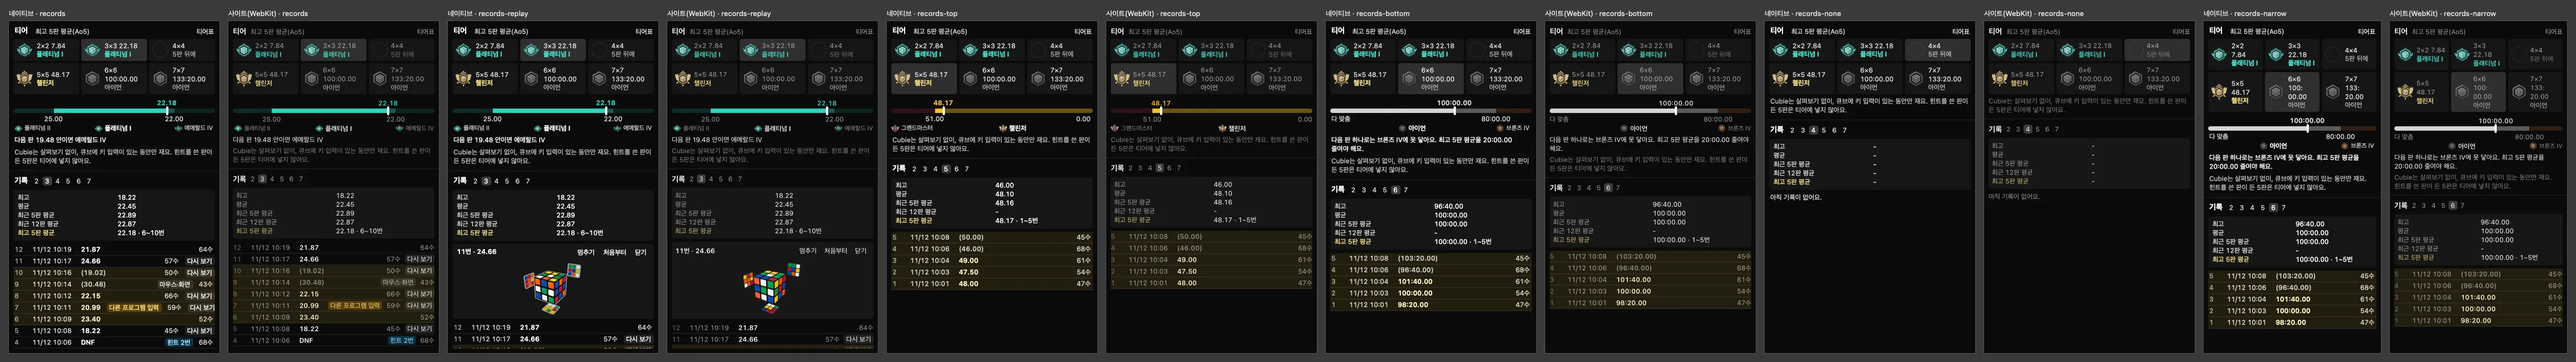
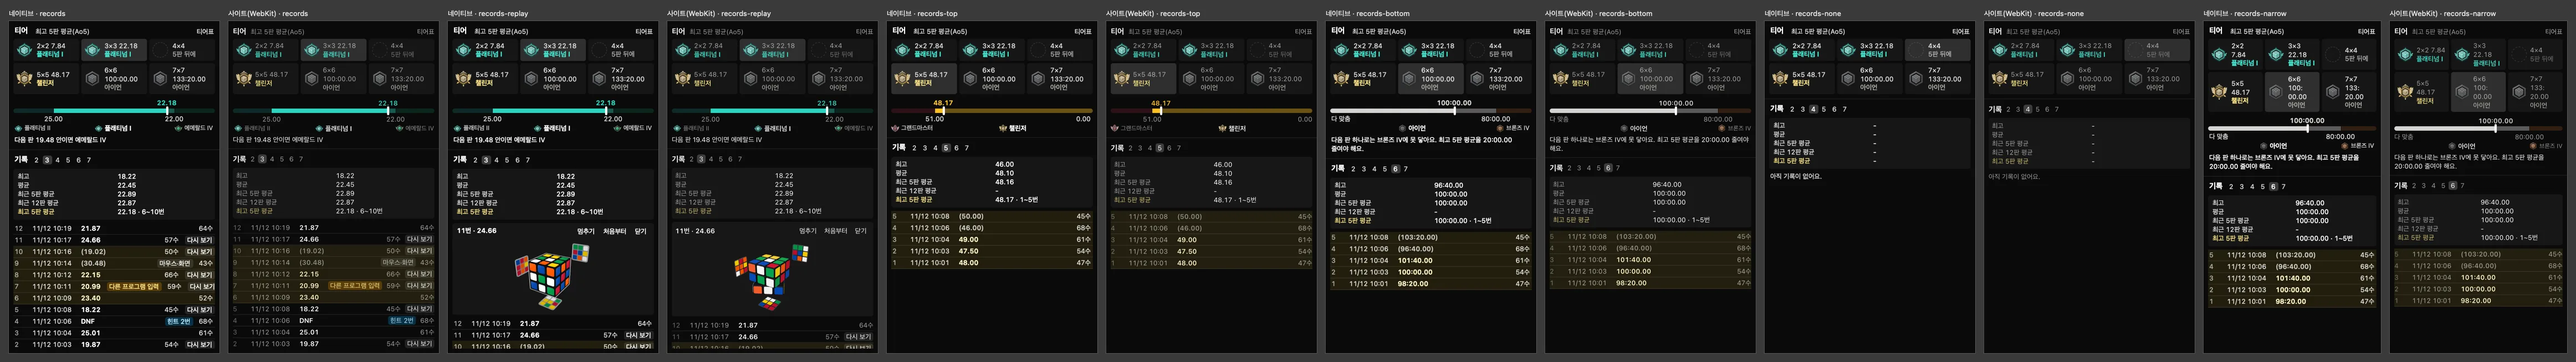
fix(cube): 큐브 화면·Cubie 창의 덧붙임 설명 글을 지움
사용자가 Cubie 기록 창 티어 칸 아래 회색 글(「Cubie는 살펴보기 없이, 큐브에
키 입력이 있는 동안만 재요. 힌트를 쓴 판이 든 5판은 티어에 넣지 않아요.」)을
보고 「대체 이런 건 왜 넣는거야」라고 지적했다. 같은 날 #377이 같은 문단의
일부만 지우고 나머지를 「재는 규칙이라 필요하다」로 남긴 것이 원인이다.

- 그 문단과 힌트 칩의 같은 뜻 툴팁을 사이트·앱 모두에서 지웠다.
- 큐브 화면·Cubie 창 전체에서 같은 꼴(재는 법·세지 않는 판·기능 설명·
  눌러 보라는 안내·기록이 생기는 법)을 함께 지웠다: 설정 거울·섞기 연출 설명,
  빈 기록 상자의 두 번째 문장, 패턴 화면 소개 두 줄, 모양 만들기 안내 줄,
  대결 규칙 설명, 배우기의 「칸을 누르면」·「힌트 2로」·「모범 답 없음」,
  온라인 대결 살펴보기 안내, 손가락 연습 키 설명, 사용자 배치 안내,
  「키 없음」 툴팁, 키 연습 「이 기기 최고」, Cubie 단축키 창의 앱 안내.
- Cubie 단축키 창은 쓰지 않는 키(처음으로·살펴보기)를 글로 알리는 대신
  표에서 뺐다(큐브 옆 패널과 같은 함수).
- 고정 규칙 3절에 덧붙임 문구 정의와 남기는 것 목록, 「설명이 필요해 보이면
  먼저 묻는다」를 적고 지적 기록에 한 줄 더했다.
- no-record-notes.test.ts 금지 문구를 넓혔다(되살리면 실패하는 것을 확인).
- 앱 창 비교 그림(기록·가장 작은 기록·티어표·설정)을 다시 찍었다.

diff --git a/apps/web/src/cube/mini/MiniCubeApp.tsx b/apps/web/src/cube/mini/MiniCubeApp.tsx
@@ -283,8 +283,8 @@ function TimeWithBreaks({ text }: { text: string }) {
 }
 
 /**
- * 크기별 최고 Ao5와 티어(Cubie 기록 기준, docs/47 15-6). 티어는 사이트와 같은 규칙(최고 Ao5, `tiers/rank.ts`)이지만
- * 기록은 미니 모드 것이라(살펴보기 없이·포커스 있는 동안만 잼) 그렇게 밝힌다
+ * 크기별 최고 Ao5와 티어(Cubie 기록 기준, docs/47 15-6). 티어는 사이트와 같은 규칙(최고 Ao5, `tiers/rank.ts`)이고
+ * 기록은 미니 모드 것이다. 재는 규칙·어느 기록인지는 화면 글로 덧붙이지 않는다(고정 규칙 3절, 2026-11-20)
  */
 function MiniTiers({
   version,
@@ -372,10 +372,6 @@ function MiniTiers({
           <NoBreakTimes text={nextSolveText(goal)} />
         </p>
       )}
-      <p className="break-keep text-white/50">
-        Cubie는 살펴보기 없이, 큐브에 키 입력이 있는 동안만 재요. 힌트를 쓴 판이
-        든 5판은 티어에 넣지 않아요.
-      </p>
     </section>
   );
 }
@@ -407,6 +403,20 @@ const DEPTH_RULE =
   "숫자 n 다음 면 키는 그 면의 n번째 층 하나, 숫자 n 다음 Shift + 면 키는 바깥 n층을 같이 돌려요(7×7 바깥 세 층은 3 → Shift+I).";
 
 /**
+ * 저장된 키 배치에서 Cubie가 쓰지 않는 동작(처음으로·살펴보기, `MiniCube`의 키 처리)을 뺀 것. Esc는 앱의 「이전 앱으로」다.
+ * 쓰지 않는 키를 글로 덧붙여 알리지 않고 표에서 뺀다(고정 규칙 3절)
+ */
+function cubieKeymap(): Keymap {
+  const k = loadKeymap();
+  return {
+    ...k,
+    bindings: k.bindings.filter(
+      (b) => b.action !== "reset" && b.action !== "inspectionSkip",
+    ),
+  };
+}
+
+/**
  * 단축키 창(앱 0.1.8까지 메뉴 「단축키 보기」가 보통 창으로 연다. 0.1.9부터는 큐브 옆 `KeysPanelPage`): 앱 단축키 짧은
  * 목록과, 지금 키 배치·크기의 큐브 키를 사이트 단축키 표와 같은 키보드 그림으로. 섞기·되돌리기는 배치에서 읽는다
  */
@@ -415,7 +425,7 @@ function KeysPage() {
   const [keymap, setKeymap] = useState<Keymap | null>(null);
   useEffect(() => {
     const reload = () => {
-      setKeymap(loadKeymap());
+      setKeymap(cubieKeymap());
       setN(loadMiniPrefs().n);
     };
     reload();
@@ -479,11 +489,7 @@ function KeysPage() {
           <p className="break-keep text-white/60 text-xs">
             칸마다 맨 위 굵은 글은 그냥 칠 때, 그 아래는 Shift와 함께, 맨 아래는
             Alt와 함께 칠 때예요. 흐린 글은 이 크기에서 쓰지 않아요.
-            {keymap.preset === "twoHand" && n >= 3 && <> {DEPTH_RULE}</>}{" "}
-            Cubie에서 Esc는 「처음으로」가 아니라 이전 앱으로 돌아가는 키이고,
-            Space(살펴보기)는 쓰지 않아요. 마우스로는 큐브를 돌려 보지 않으니
-            보는 각도는 큐브 통째 돌리기(x·y·z) 키로 바꿔요. 배치는 메뉴 「키
-            배치·색…」에서 바꿔요.
+            {keymap.preset === "twoHand" && n >= 3 && <> {DEPTH_RULE}</>}
           </p>
         </div>
       )}
@@ -506,16 +512,7 @@ function KeysPanelPage() {
     const q = Number(new URLSearchParams(window.location.search).get("n"));
     return isMiniSize(q) ? q : loadMiniPrefs().n;
   });
-  // Cubie가 쓰지 않는 동작(처음으로·살펴보기, `MiniCube`의 키 처리)은 표에서 뺀다. Esc는 앱의 「표 닫기·이전 앱으로」다
-  const [keymap] = useState<Keymap>(() => {
-    const k = loadKeymap();
-    return {
-      ...k,
-      bindings: k.bindings.filter(
-        (b) => b.action !== "reset" && b.action !== "inspectionSkip",
-      ),
-    };
-  });
+  const [keymap] = useState<Keymap>(cubieKeymap);
   const [pressed, setPressed] = useState<{ code: string; id: number } | null>(
     null,
   );
@@ -2012,7 +2009,6 @@ function RecordsPanel({
                     {(r.hints ?? 0) > 0 && (
                       <span
                         data-mini-record-hints={r.hints}
-                        title="힌트를 본 판이 든 5판은 티어에 넣지 않아요"
                         className="rounded bg-sky-500/25 px-1 text-sky-200"
                       >
                         힌트 {r.hints}번

diff --git a/apps/cubie/Sources/Cubie/NativeRecordsWindow.swift b/apps/cubie/Sources/Cubie/NativeRecordsWindow.swift
@@ -98,7 +98,6 @@ final class RecordsRootView: FlippedView {
   private let tiersBasis = NUI.label(RecordsSheet.tiersBasis, color: NUI.white(0.6))
   private let tiersLink = Chip(RecordsSheet.tiersLink, look: Chip.Look(text: NUI.white(0.7), padX: 0))
   private var tierButtons: [TierCell] = []
-  private let tiersNote = NUI.paragraph(RecordsSheet.tiersNote, color: NUI.white(0.5), lineHeight: 16)
   /// 고른 크기의 구간 안 자리 막대(사이트 `TierBandBar`, 5판 평균이 없으면 숨김)
   let band = TierBandView()
   /// 고른 크기의 다음 판 목표(사이트 `data-mini-next-solve`)
@@ -121,7 +120,7 @@ final class RecordsRootView: FlippedView {
     super.init(frame: NSRect(origin: .zero, size: NativeRecordsWindow.size.initial))
     fill = NUI.color(NUI.Hex.neutral950)
     addSubview(tiers)
-    for v in [tiersTitle, tiersBasis, tiersLink, band, goalLine, tiersNote, tiersLine] as [NSView] { tiers.addSubview(v) }
+    for v in [tiersTitle, tiersBasis, tiersLink, band, goalLine, tiersLine] as [NSView] { tiers.addSubview(v) }
     tiersLink.action = { [weak self] in self?.owner?.openTiers() }
     tiersLine.fill = NUI.white(0.1)
     for s in RecordsSheet.sizes {
@@ -255,9 +254,8 @@ final class RecordsRootView: FlippedView {
       goalLine.frame = NSRect(x: 8, y: y, width: inner, height: gh)
       y += gh + 4
     }
-    let nh = NUI.height(tiersNote, width: inner)
-    tiersNote.frame = NSRect(x: 8, y: y, width: inner, height: nh)
-    y += nh + 8
+    // 마지막 줄 아래 gap 4는 위에서 더했다. 나머지 4로 사이트 `p-2`(아래 8)
+    y += 4
     tiers.frame = NSRect(x: 0, y: 0, width: w, height: y + 1)
     tiersLine.frame = NSRect(x: 0, y: y, width: w, height: 1)
     y += 1
@@ -579,7 +577,6 @@ final class RecordRowView: FlippedView {
     }
     if row.hints > 0 {
       let h = Chip(RecordsSheet.hints(row.hints), look: Chip.Look(fill: NUI.color(NUI.Hex.sky500, 0.25), text: NUI.color(NUI.Hex.sky200)))
-      h.toolTip = RecordsSheet.hintsTip
       badges.append(h)
     }
     self.badges = badges

diff --git a/apps/web/src/cube/native/native-windows-text.test.ts b/apps/web/src/cube/native/native-windows-text.test.ts
@@ -76,11 +76,9 @@ describe("Cubie 네이티브 창 글 = 사이트 화면 글", () => {
       "최고 5판 평균(Ao5)",
       "티어표",
       "5판 뒤에",
-      "Cubie는 살펴보기 없이, 큐브에 키 입력이 있는 동안만 재요. 힌트를 쓴 판이 든 5판은 티어에 넣지 않아요.",
       "아직 기록이 없어요.",
       "다른 프로그램 입력",
       "마우스·화면",
-      "힌트를 본 판이 든 5판은 티어에 넣지 않아요",
       "다시 보기",
       "이어 보기",
       "멈추기",
@@ -129,7 +127,7 @@ describe("Cubie 네이티브 창 글 = 사이트 화면 글", () => {
       "골드부터 위는 세계 큐브 협회(WCA) 대회 기록의 분포로 정했고, 아이언·브론즈·실버는 대회에 나가지 않는 사람까지 담도록 넓혔어요. 큰 큐브는 3×3 기록이 같은 사람이 그 크기에서 내는 기록에 맞춰, 크기가 달라도 같은 티어면 비슷한 실력이에요.",
       "내 최고 5판 평균",
       // 앱 티어표는 Cubie 기록으로 센다(사이트는 `?records=cubie`일 때 같은 글)
-      "이 크기는 아직 5판 평균이 없어요. Cubie에서 5판 맞추면 생겨요.",
+      "이 크기는 아직 5판 평균이 없어요.",
       "칸의 시간은 그 구간에 드는 최고 5판 평균의 상한이에요. 「WCA 경기자 중」은 그 티어에 드는 시간 이하인 대회 경기자의 비율이에요(",
       "평균 기록이 있는 약",
       "그랜드마스터·챌린저 경계는 그때의 세계 약 1,000위·300위 기록이라 해마다 빨라질 수 있어요.",
@@ -151,7 +149,6 @@ describe("Cubie 네이티브 창 글 = 사이트 화면 글", () => {
       "보기와 소리",
       "회전 속도",
       "섞기 연출",
-      "크기에 맞게는 5×5까지 하나씩 빠르게, 6×6·7×7은 짧은 연출이에요.",
       '"스티커 없는 모양"',
       '"큐브 소리"',
       "가린 스티커",

diff --git a/apps/cubie/Sources/Cubie/NativeSettingsWindow.swift b/apps/cubie/Sources/Cubie/NativeSettingsWindow.swift
@@ -60,7 +60,6 @@ final class SettingsPageView: FlippedView {
   private let slider = NSSlider(value: 90, minValue: 0, maxValue: 200, target: nil, action: nil)
   private let showLabel = NUI.label(SettingsSheet.scrambleShow, size: 14, mono: false)
   private var showChips: [Chip] = []
-  private let showNote = NUI.paragraph(SettingsSheet.scrambleShowNote, color: NUI.white(0.5), lineHeight: 16)
   private let hiddenLabel = NUI.label(SettingsSheet.hidden, size: 14, mono: false)
   private var hiddenChips: [Chip] = []
   private let stickerless = NSButton(checkboxWithTitle: SettingsSheet.stickerless, target: nil, action: nil)
@@ -133,7 +132,7 @@ final class SettingsPageView: FlippedView {
     }
     all.action = { [weak self] in self?.openWeb?() }
     var views: [NSView] = [back, title, keymapTitle, keysMap, keysLearn, customBox, port, colorsTitle, customChip, preview]
-    views.append(contentsOf: [viewTitle, speedLabel, speedValue, slider, showLabel, showNote, hiddenLabel, all])
+    views.append(contentsOf: [viewTitle, speedLabel, speedValue, slider, showLabel, hiddenLabel, all])
     views.append(contentsOf: checks as [NSView])
     views.append(contentsOf: hiddenChips as [NSView])
     views.append(contentsOf: presetChips as [NSView])
@@ -317,10 +316,7 @@ final class SettingsPageView: FlippedView {
     y += 28 + 12
     showLabel.frame = NSRect(x: x0, y: y + 4, width: NUI.width(showLabel), height: 20)
     row(showChips, x: showLabel.frame.maxX + 8, y: y)
-    y += 28 + 4
-    let nh = NUI.height(showNote, width: w)
-    showNote.frame = NSRect(x: x0, y: y, width: w, height: nh)
-    y += nh + 12
+    y += 28 + 12
     hiddenLabel.frame = NSRect(x: x0, y: y + 4, width: NUI.width(hiddenLabel), height: 20)
     row(hiddenChips, x: hiddenLabel.frame.maxX + 8, y: y)
     y += 28 + 12

diff --git a/apps/web/src/cube/components/FingersApp.tsx b/apps/web/src/cube/components/FingersApp.tsx
@@ -7,7 +7,7 @@ import { play } from "@/game/sound";
 import { cn } from "@/lib/cn";
 import { presetKeymap } from "../input";
 import { keysForMove } from "../keys/move-keys";
-import { TWO_HAND_RULE, TWO_HAND_RULES } from "../keys/two-hand";
+import { TWO_HAND_RULES } from "../keys/two-hand";
 import { FINGER_DRILLS, FINGER_INTRO } from "../learn/fingers";
 import { fingerQuiz } from "../learn/interact";
 import { algTokens } from "../learn/notation";
@@ -173,15 +173,6 @@ export function FingersApp() {
 
           <section className="flex flex-col gap-3">
             <p className="break-keep text-sm text-white/80">{drill.note}</p>
-            {!noKeyboard && (
-              <p
-                className="break-keep text-white/55 text-xs"
-                data-fingers-keys-note
-              >
-                칸 아래 키는 「두 손」 배치에서 같은 수를 치는 키예요.{" "}
-                {TWO_HAND_RULE}
-              </p>
-            )}
             <ol className="flex flex-wrap gap-1.5">
               {tokens.map((t, i) => {
                 const f = fingers[i] as FingerToken | undefined;

diff --git a/apps/cubie/Sources/CubieCore/RecordsSheet.swift b/apps/cubie/Sources/CubieCore/RecordsSheet.swift
@@ -14,8 +14,6 @@ public enum RecordsSheet {
   public static let tiersBasis = "최고 5판 평균(Ao5)"
   public static let tiersLink = "티어표"
   public static let tierPending = "5판 뒤에"
-  public static let tiersNote =
-    "Cubie는 살펴보기 없이, 큐브에 키 입력이 있는 동안만 재요. 힌트를 쓴 판이 든 5판은 티어에 넣지 않아요."
   public static let title = "기록"
   /// 요약 이름: 최근 n판 평균과 티어를 정한 최고 5판 평균을 이름으로 가른다(2026-11-18)
   public static let summaryLabels = ["최고", "평균", TierProgress.recent5, TierProgress.recent12, TierProgress.best5]
@@ -32,7 +30,6 @@ public enum RecordsSheet {
   public static let empty = "아직 기록이 없어요."
   public static let synthetic = "다른 프로그램 입력"
   public static let swipe = "마우스·화면"
-  public static let hintsTip = "힌트를 본 판이 든 5판은 티어에 넣지 않아요"
   public static let replay = "다시 보기"
   public static let pause = "멈추기"
   public static let resume = "이어 보기"

diff --git a/apps/web/src/cube/components/CubeSettingsApp.tsx b/apps/web/src/cube/components/CubeSettingsApp.tsx
@@ -203,10 +203,6 @@ export function CubeSettingsApp() {
               </button>
             ))}
           </div>
-          <p className="-mt-2 break-keep text-white/50 text-xs">
-            거울은 안 보이는 뒤·왼쪽·아래 면을 큐브 둘레에 비춰 보여요. 좁은
-            자리에서는 거울 없이 큐브만 보이니 끌어서 둘러봐요.
-          </p>
           <div
             className="flex flex-wrap items-center gap-2"
             data-scramble-show-setting
@@ -224,9 +220,6 @@ export function CubeSettingsApp() {
               </button>
             ))}
           </div>
-          <p className="-mt-2 break-keep text-white/50 text-xs">
-            크기에 맞게는 5×5까지 하나씩 빠르게, 6×6·7×7은 짧은 연출이에요.
-          </p>
           <div className="flex flex-wrap items-center gap-2" data-flow-setting>
             수 흐름 띠
             {(["on", "small", "off"] as const).map((v) => (

diff --git a/apps/web/src/cube/online/RaceView.tsx b/apps/web/src/cube/online/RaceView.tsx
@@ -820,19 +820,6 @@ function CubeRaceView({
             >
               {scramble}
             </p>
-            {/* 판 시작 전·살펴보기 동안: 무엇을 할 수 있는지 미리 알린다 */}
-            {(phase === "commit" ||
-              phase === "reveal" ||
-              phase === "inspect") &&
-              mine && (
-                <p
-                  data-cube-inspect-hint
-                  className="mx-auto break-keep rounded-full border border-sky-300/30 bg-sky-300/10 px-3 py-1 text-center text-sky-100 text-xs"
-                >
-                  살펴보기: 보기만 해요(끌거나 ←·↓ 키로 둘러보기). 시간이 열리면
-                  면을 돌려요.
-                </p>
-              )}
             {/* 내 핸디캡(출발 늦추기·목표)은 판 내내 보인다 */}
             {mine &&
               (myDelayMs > 0 || myGoal || myHelp) &&

diff --git a/apps/cubie/Sources/CubieCore/TierSheet.swift b/apps/cubie/Sources/CubieCore/TierSheet.swift
@@ -18,7 +18,7 @@ public enum TierSheet {
     "골드부터 위는 세계 큐브 협회(WCA) 대회 기록의 분포로 정했고, 아이언·브론즈·실버는 대회에 나가지 않는 사람까지 담도록 넓혔어요. 큰 큐브는 3×3 기록이 같은 사람이 그 크기에서 내는 기록에 맞춰, 크기가 달라도 같은 티어면 비슷한 실력이에요."
   public static let mineLabel = "내 최고 5판 평균"
   /// 앱 티어표는 Cubie 기록으로 센다(사이트 `records=cubie`와 같은 글)
-  public static let none = "이 크기는 아직 5판 평균이 없어요. Cubie에서 5판 맞추면 생겨요."
+  public static let none = "이 크기는 아직 5판 평균이 없어요."
   public static let headTier = "티어"
   public static let headWca = "WCA 경기자 중"
   public static let outside = "대회 밖"

diff --git a/apps/web/src/cube/components/PatternsApp.tsx b/apps/web/src/cube/components/PatternsApp.tsx
@@ -166,10 +166,6 @@ function PatternList({
           </a>
         </nav>
       </div>
-      <p className="text-sm text-white/70">
-        맞춘 큐브에 공식 하나만 하면 예쁜 무늬가 생겨요. 카드를 열어 한 수씩
-        보고, 내 키로 직접 만들어 보세요.
-      </p>
 
       {PATTERN_SIZES.map((n) => (
         <section
@@ -281,10 +277,6 @@ function MinePatterns({
       data-pattern-mine
     >
       <h2 className="font-semibold text-white/90">내 패턴</h2>
-      <p className="text-sm text-white/70">
-        공식을 넣으면 맞춘 큐브에 했을 때의 모양을 바로 보여 줘요. 마음에 들면
-        저장해 두세요.
-      </p>
       <div className="flex flex-col gap-3 sm:flex-row">
         <form
           className="flex flex-1 flex-col gap-2 text-sm"

diff --git a/apps/web/src/cube/components/TryPanel.tsx b/apps/web/src/cube/components/TryPanel.tsx
@@ -380,11 +380,7 @@ export function TryPanel({
                     <MoveChip notation={taughtHint.move} keysOf={keysOf} link />
                   </span>
                 </p>
-              ) : (
-                <p className="text-white/50 text-xs">
-                  막히면 「힌트 2」로 다음 수를 봐요.
-                </p>
-              )}
+              ) : null}
             </>
           ) : (
             <p
@@ -396,9 +392,6 @@ export function TryPanel({
             </p>
           )}
         </div>
-      )}
-      {answer.length === 0 && !taught && (
-        <p className="text-white/50 text-xs">정해진 모범 답 없음</p>
       )}
 
       <CubePlay
